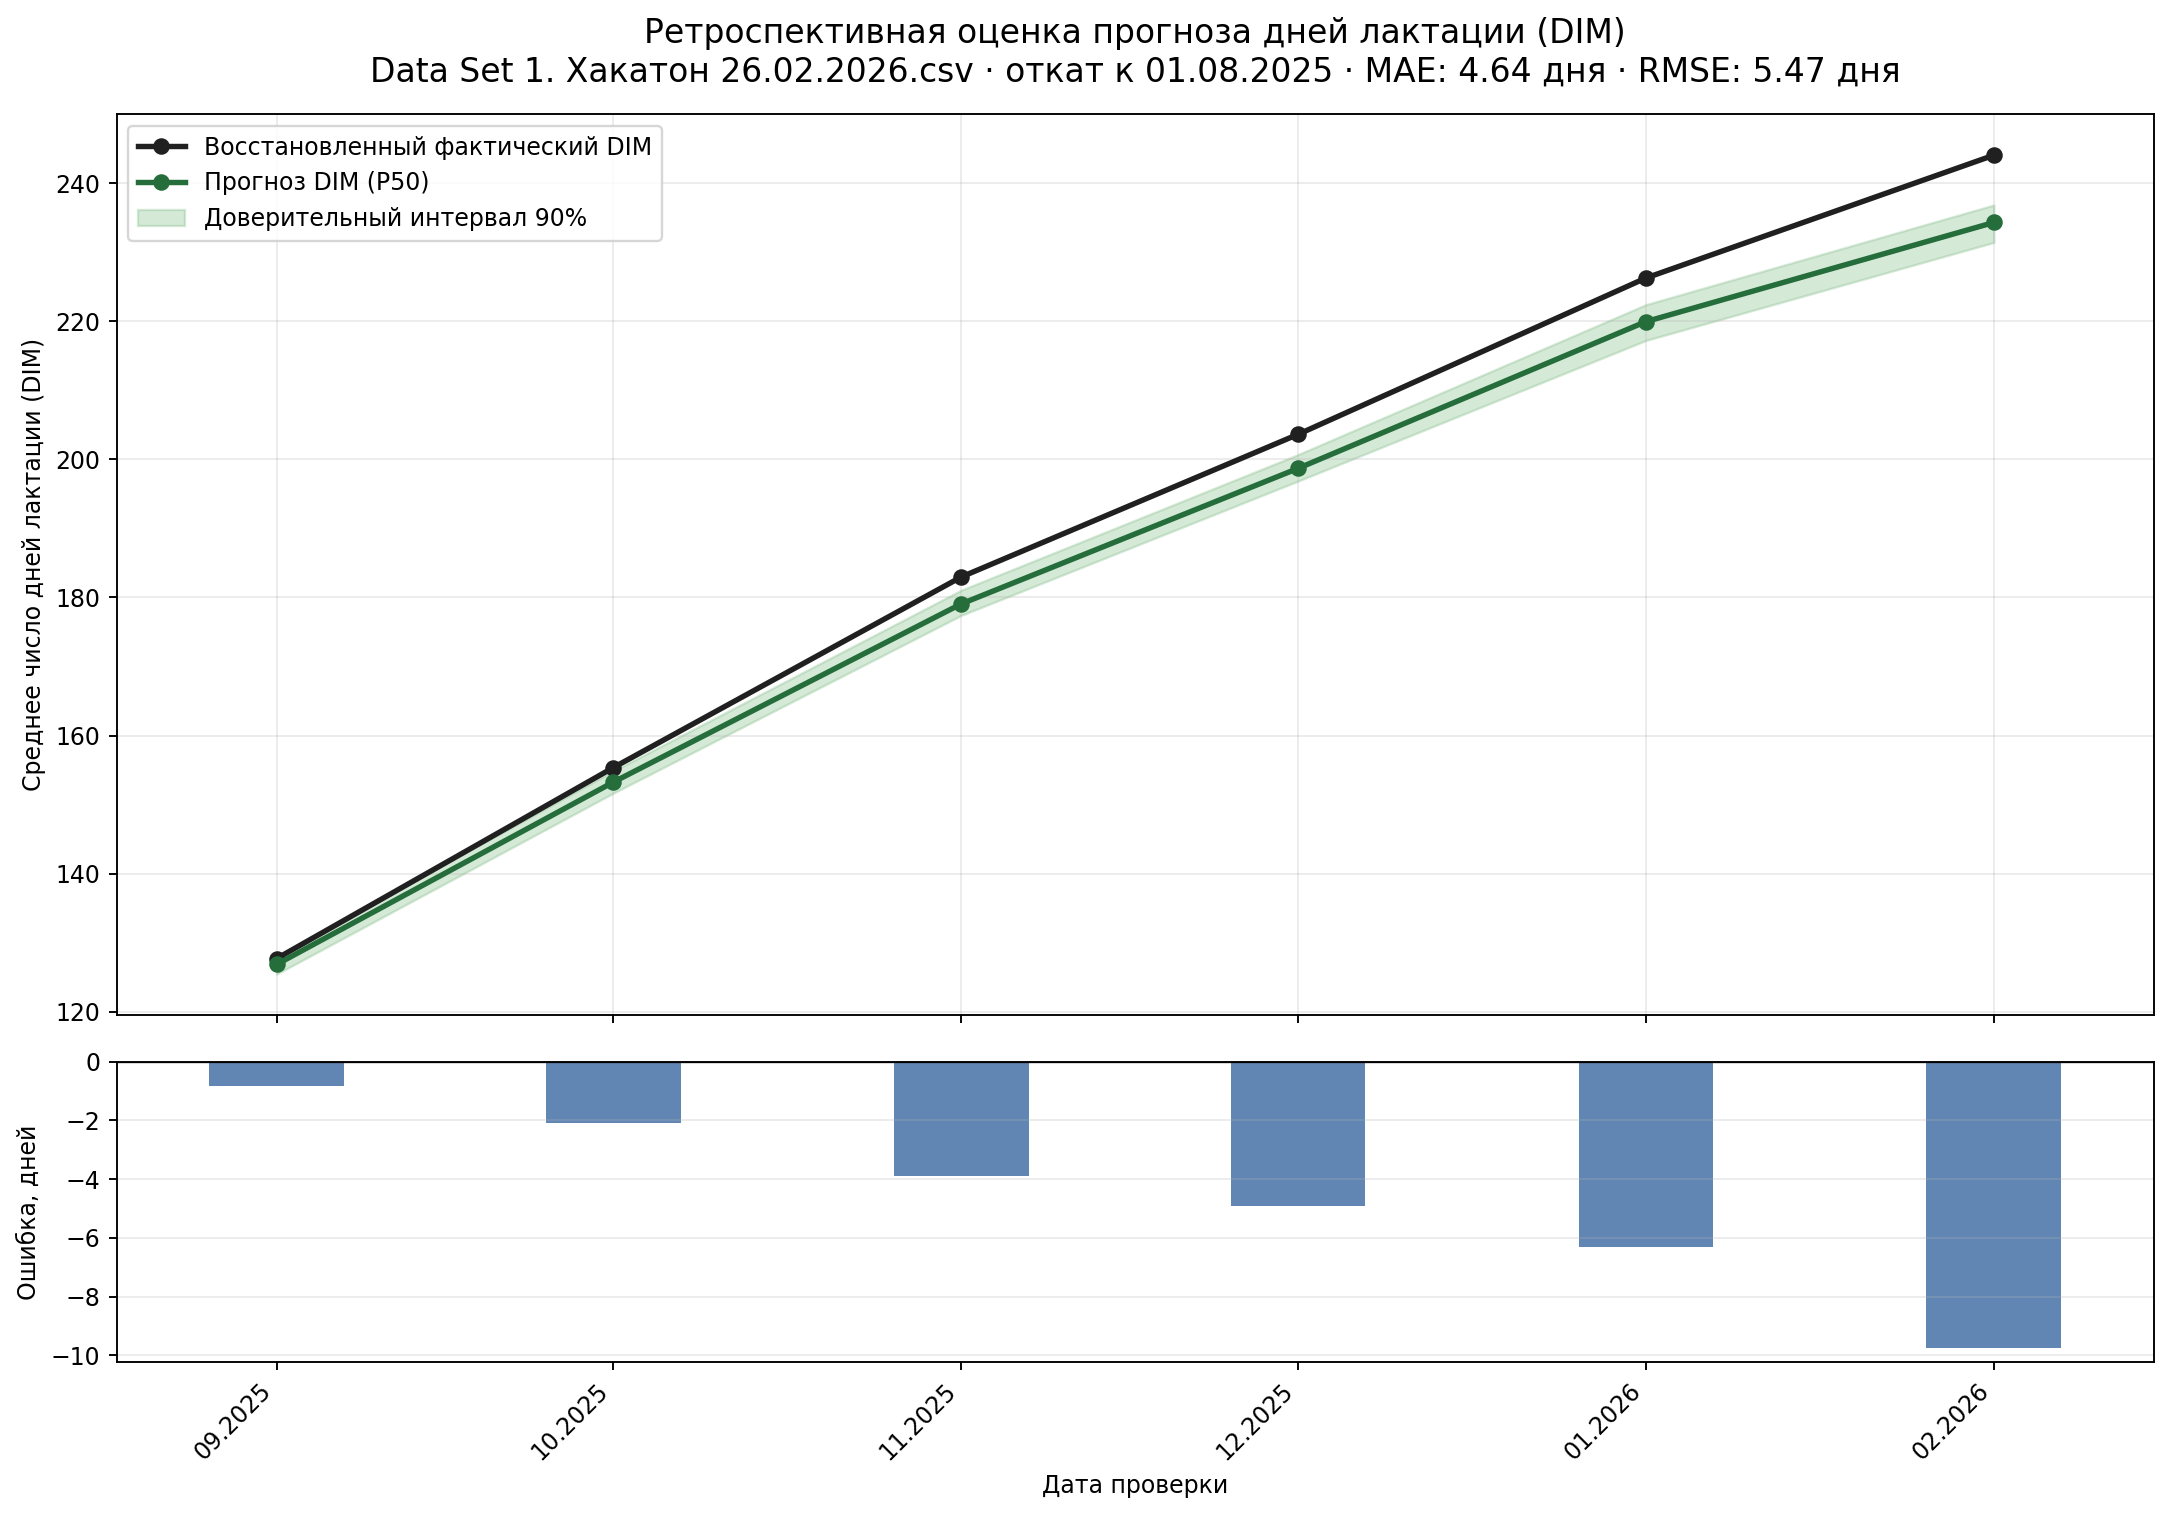
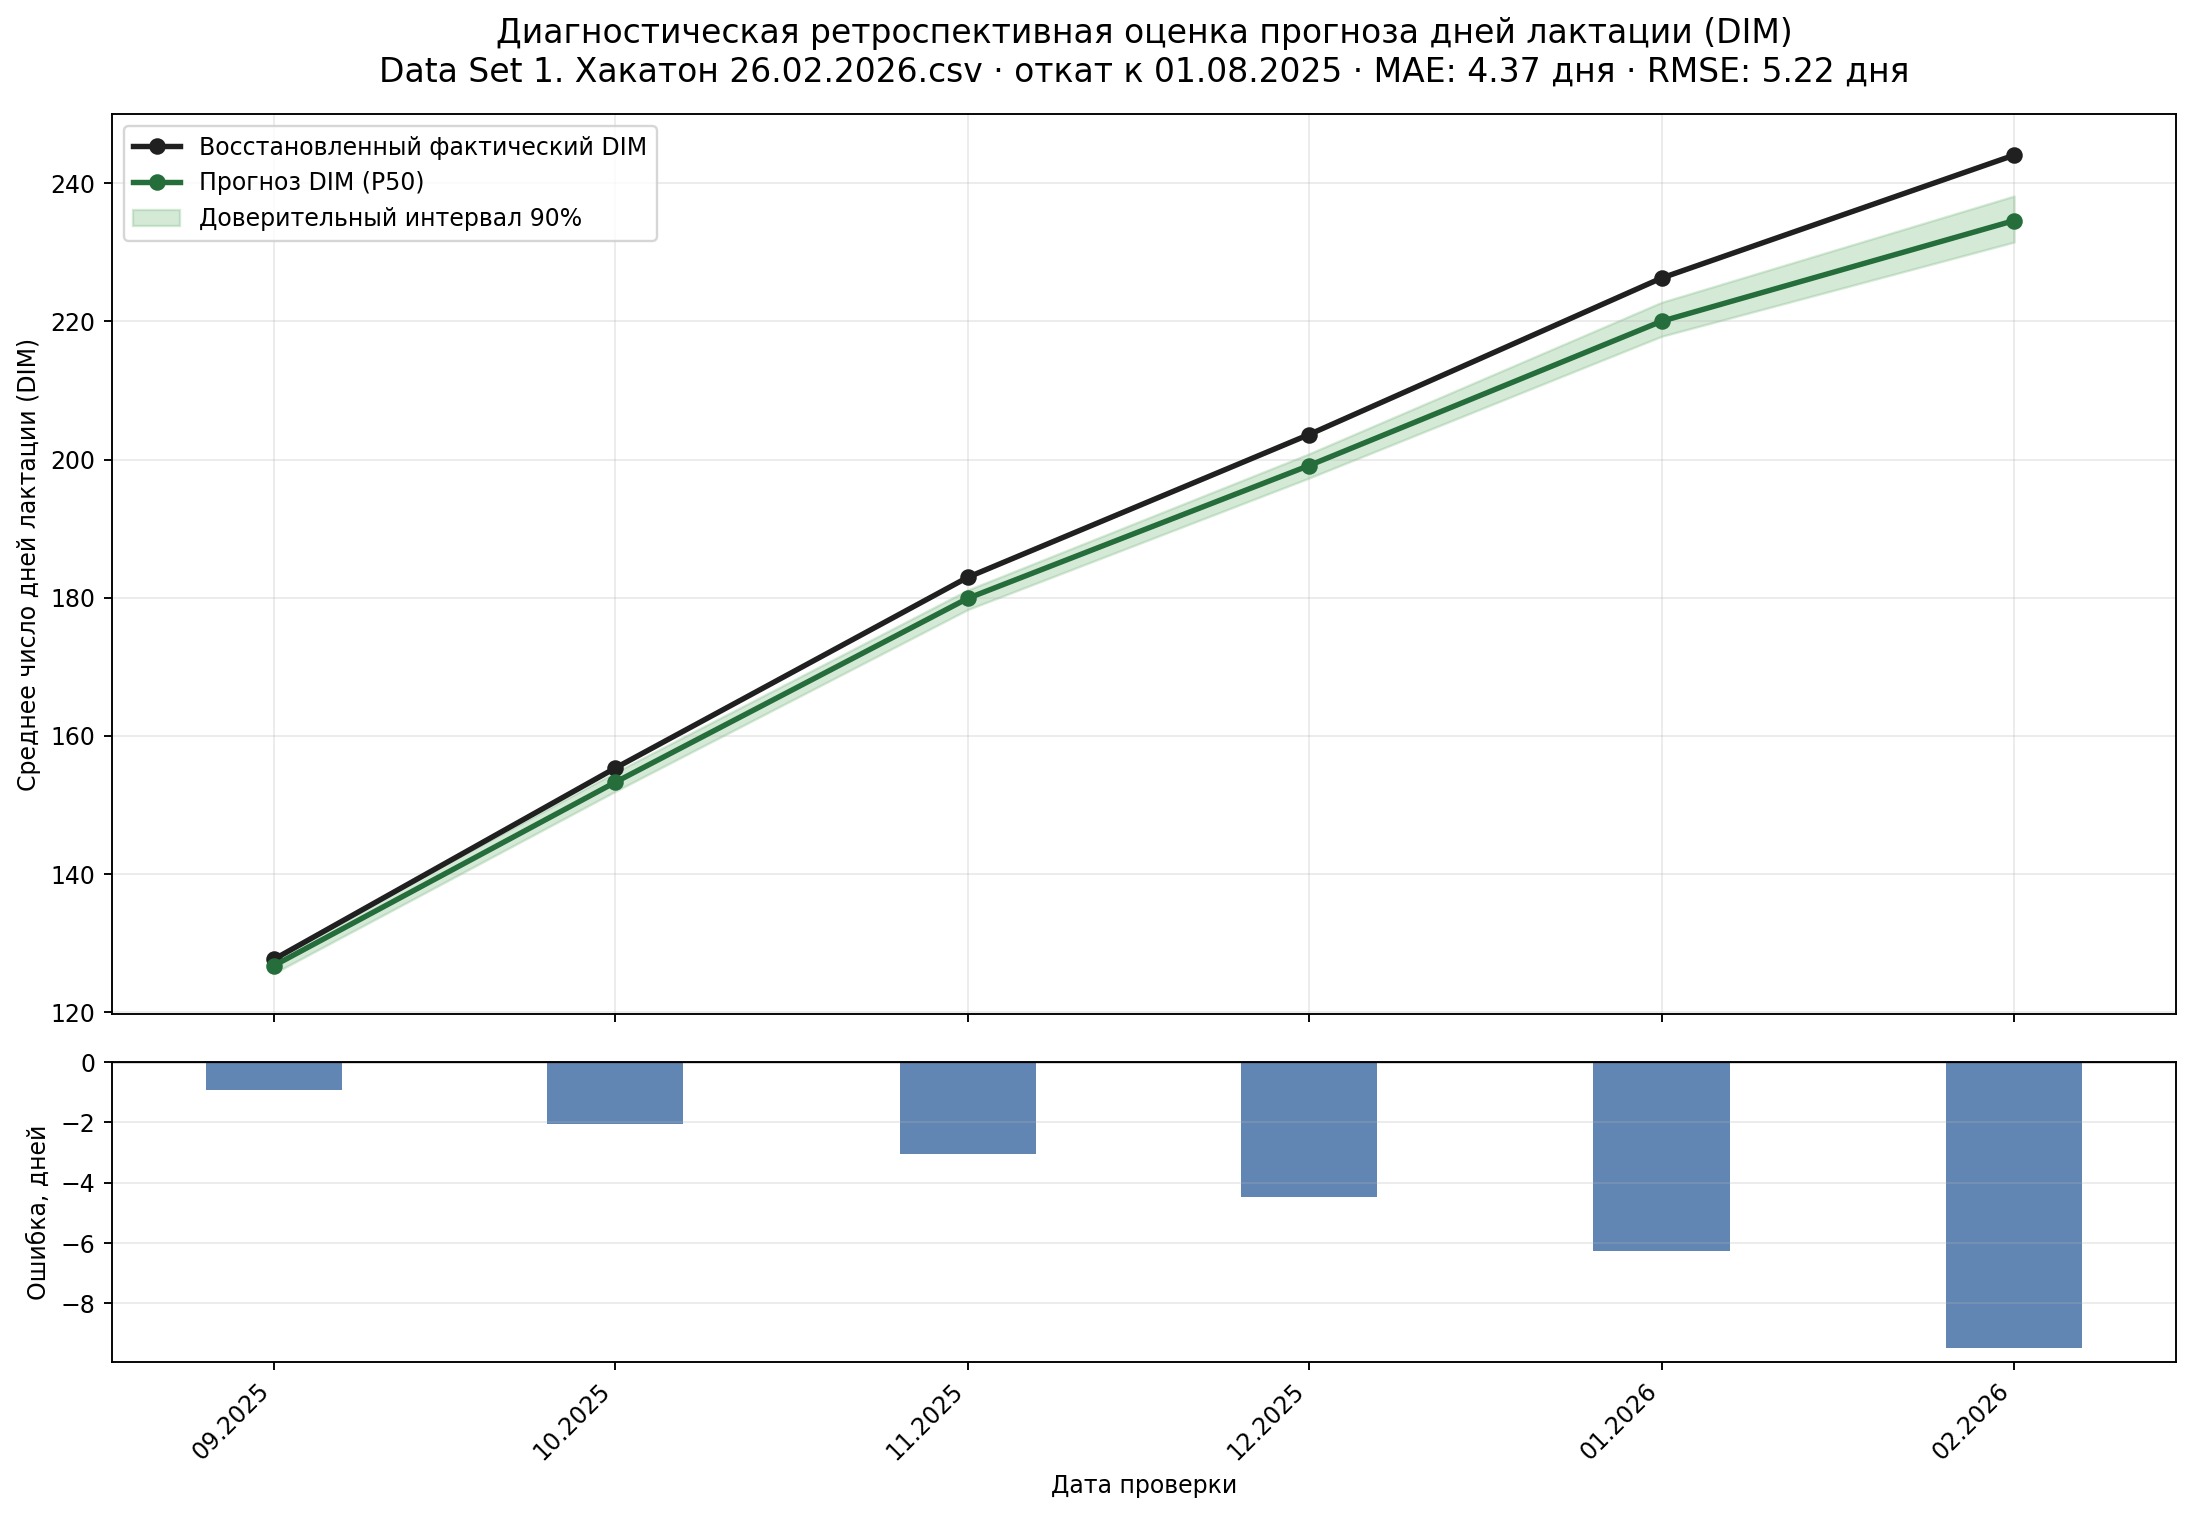
Какая-то дичь доделанная

diff --git a/README.md b/README.md
@@ -72,7 +72,9 @@ python backend/scripts/evaluate_milk_days_forecast.py `
 
 По умолчанию действует единое ограничение `DIM <= 350`. При превышении лимита
 стельное животное переводится в сухостой и остаётся в когорте до будущего отёла,
-нестельное выводится из активной когорты; числового обрезания DIM нет. Значение
+нестельное выводится из активной когорты; числового обрезания DIM нет. Строки,
+в которых осеменение произошло уже после такого выхода, помечаются как конфликтные
+и исключаются. Значение
 можно изменить параметром `--max-dim-days`. Животные со статусом `Перемещена` без
 даты перемещения исключаются, поскольку момент их выхода из стада неизвестен.
 
